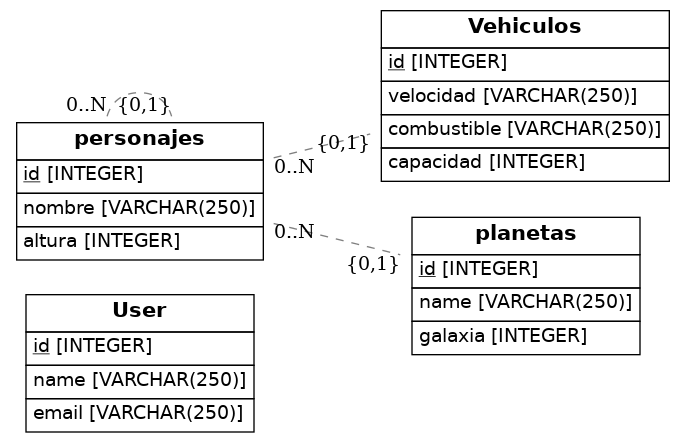
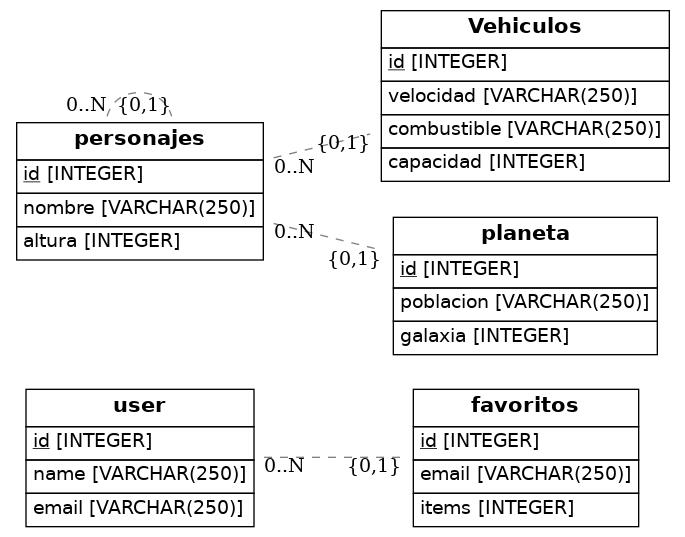
Se fini

diff --git a/src/models.py b/src/models.py
@@ -8,8 +8,8 @@ from eralchemy import render_er
 
 Base = declarative_base()
 
-class User(Base):
-    __tablename__ = 'User'
+class user(Base):
+    __tablename__ = 'user'
     id = Column(Integer, primary_key=True)
     name = Column(String(250), nullable=False)
     email = Column(String(250), nullable=False)
@@ -23,7 +23,7 @@ class favoritos(Base):
         return {}
     
 
-class Vehiculos(Base):
+class vehículos(Base):
     __tablename__ = 'Vehiculos'
     id = Column(Integer, primary_key=True)
     velocidad = Column(String(250), nullable=False)
@@ -42,15 +42,11 @@ class personajes(Base):
 
 class planeta(Base):
     __tablename__ = 'planeta'
-    id = Column(Integer)
+    id = Column(Integer, primary_key=True)
     poblacion = Column(String(250), nullable=False)
     galaxia = Column(Integer, ForeignKey('personajes.id'))
     def to_dict(self):
         return {}
 
 
-
-
-
-## Draw from SQLAlchemy base
 render_er(Base, 'diagram.png')
